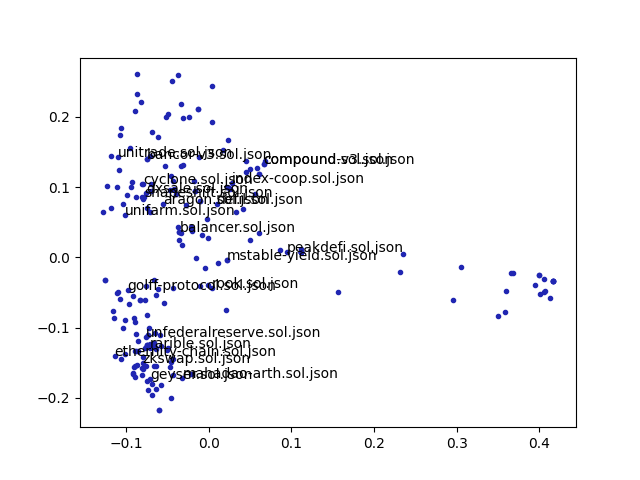
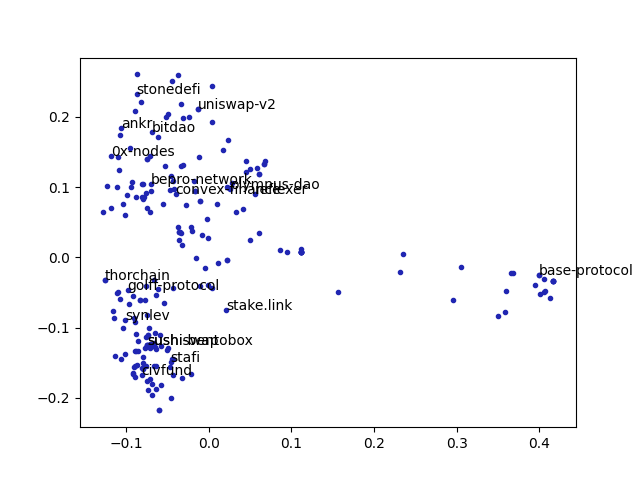
pca progress

diff --git a/ml-backend/visualise_embeddings.py b/ml-backend/visualise_embeddings.py
@@ -1,64 +1,46 @@
 import os
 import json
+import random
 import numpy as np
 from scipy import linalg as LA
+from matplotlib import pyplot as MPL
 
-
-def PCA(data, dims_rescaled_data=2):
-    """
-    returns: data transformed in 2 dims/columns + regenerated original data
-    pass in: data as 2D NumPy array
-    """
-    m, n = data.shape
-    # mean center the data
+def PCA(data):
     data -= data.mean(axis=0)
-    # calculate the covariance matrix
     R = np.cov(data, rowvar=False)
-    # calculate eigenvectors & eigenvalues of the covariance matrix
-    # use 'eigh' rather than 'eig' since R is symmetric, 
-    # the performance gain is substantial
     evals, evecs = LA.eigh(R)
-    # sort eigenvalue in decreasing order
     idx = np.argsort(evals)[::-1]
     evecs = evecs[:,idx]
-    # sort eigenvectors according to same index
-    evals = evals[idx]
-    # select the first n eigenvectors (n is desired dimension
-    # of rescaled data array, or dims_rescaled_data)
-    evecs = evecs[:, :dims_rescaled_data]
-    # carry out the transformation on the data using eigenvectors
-    # and return the re-scaled data, eigenvalues, and eigenvectors
-    return np.dot(evecs.T, data.T).T, evals, evecs
+    evecs = evecs[:, :2]
+    data_resc = np.dot(evecs.T, data.T).T
+    return data_resc[:, 0], data_resc[:, 1]
 
-def plot_pca(data_resc, labels):
-    from matplotlib import pyplot as MPL
+def plot_pca(xs, ys, labels):
     clr1 =  '#2026B2'
     fig = MPL.figure()
     ax1 = fig.add_subplot(111)
-    ax1.plot(data_resc[:, 0], data_resc[:, 1], '.', mfc=clr1, mec=clr1)
+    ax1.plot(xs, ys, '.', mfc=clr1, mec=clr1)
     for i, txt in enumerate(labels):
-        if i % 10 == 0:
-            ax1.annotate(txt, (data_resc[i, 0], data_resc[i, 1]))
+        if txt == 'uniswap-v2' or txt == 'olympus-dao' or txt == 'sushiswap' or random.random() < 0.05:
+            ax1.annotate(txt, (xs[i], ys[i]))
     MPL.savefig("pca.png")
 
 def load_data(path):
     files = os.listdir(path)
-    data = {}
+    data = []
     for file in files:
         with open(path + file) as f:
-            data[file] = json.loads(f.read())["data"][0]['embedding']
-    
-    return data
+            data.append(json.loads(f.read())["data"][0]['embedding'])
+    names = [file[:-9] for file in files]
+    return names, data
 
-data = load_data('./embeddings/')
-names = [name for name, emb in data.items()]
-data_matrix = np.array([emb for name, emb in data.items()])
-data_resc, _eigenvals, _eigenvecs = PCA(data_matrix)
+names, data = load_data('./embeddings/')
+data = np.array(data)
+xs, ys = PCA(data)
 
-plot_pca(data_resc, names)
+plot_pca(xs, ys, names)
 
-
-data_json = {name[:-9]: list(data) for name, data in zip(names, data_resc)}
 with open ('pca.json', 'w') as f:
+    data_json = {name: list(data) for name, data in zip(names, zip(xs, ys))}
     f.write(json.dumps(data_json))
 
